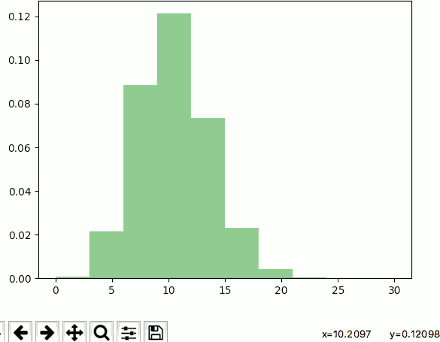
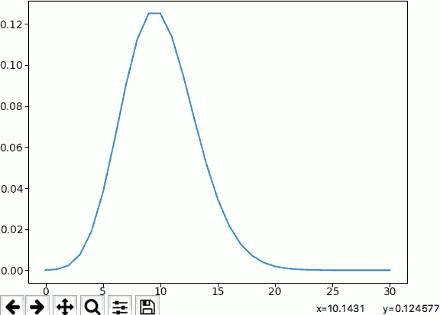
m

Changed region(s): [[0.0, 0.0, 1.0, 1.0]]

diff --git a/dev_notes/TaiwanU_probability.md b/dev_notes/TaiwanU_probability.md
@@ -772,6 +772,20 @@ plt.show()
 
  - 为什么这么像 正态分布？
 
+ - another method, use scipy
+
+```
+import scipy, scipy.stats
+x = scipy.linspace(0,10,11)
+pmf = scipy.stats.binom.pmf(x,10,0.6)
+import pylab
+pylab.plot(x,pmf)
+pylab.show()
+```
+
+![](https://raw.githubusercontent.com/mebusy/notes/master/imgs/TaiU_probability_binom2.png)
+
+
 
 <h2 id="f7bf1cb803a0ab0539a6dc3ed526dd4f"></h2>
 
